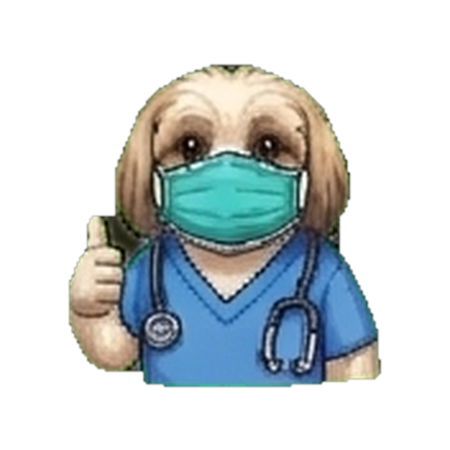
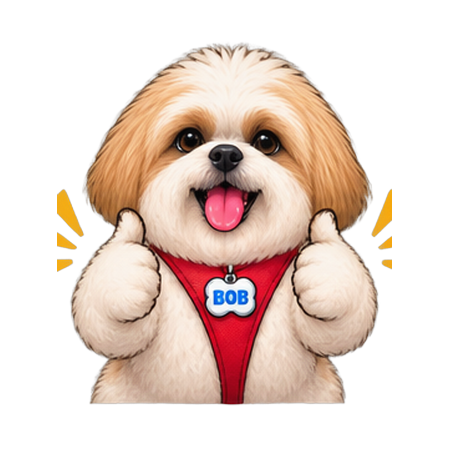
Corrige bug onde a frequencia 'intervalo' usava sua propria data de inicio interna (sempre 'hoje') em vez da data de inicio escolhida pelo usuario no campo Duracao, causando ciclos de 2 em 2 dias comecando no dia errado. Tambem substitui as mascotes do Bob por versoes melhores (sem partes faltando) 

diff --git a/web/src/screens/AddMedicineScreen.jsx b/web/src/screens/AddMedicineScreen.jsx
@@ -114,21 +114,18 @@ export default function AddMedicineScreen() {
   }
 
   function montarFrequencia() {
-    const hoje = formatarData(new Date());
     if (tipoFrequencia === 'diaria') return { tipo: 'diaria' };
     if (tipoFrequencia === 'dias_semana') {
       return { tipo: 'dias_semana', dias: diasSemanaSelecionados };
     }
     if (tipoFrequencia === 'intervalo') {
-      const dataInicioExistente =
-        remedioOriginal?.frequencia?.tipo === 'intervalo'
-          ? remedioOriginal.frequencia.dataInicio
-          : null;
       return {
         tipo: 'intervalo',
         intervaloDias: Number(intervaloDias) || 2,
-        dataInicio: dataInicioExistente || hoje,
-        proximaData: hoje,
+        // usa a MESMA data de início escolhida no campo "Duração",
+        // pra não ter duas datas de início conflitantes pro mesmo remédio
+        dataInicio,
+        proximaData: dataInicio,
       };
     }
     return { tipo: 'diaria' };

diff --git a/web/src/utils/relatorioPdf.js b/web/src/utils/relatorioPdf.js
@@ -87,7 +87,7 @@ export async function gerarRelatorioPdf({ modoBob = false } = {}) {
 
   const [logoBase64, mascoteBase64] = await Promise.all([
     carregarImagemComoBase64(modoBob ? '/logo-bob.png' : '/logo-caoprimido.png').catch(() => null),
-    carregarImagemComoBase64(modoBob ? '/bob/mascote-parabens.png' : '/nina/mascote-lendo.png').catch(() => null),
+    carregarImagemComoBase64(modoBob ? '/bob/mascote-lendo.png' : '/nina/mascote-lendo.png').catch(() => null),
   ]);
 
   const doc = new jsPDF();

diff --git a/web/src/utils/versao.js b/web/src/utils/versao.js
@@ -1,4 +1,4 @@
 // Atualizo esse número toda vez que envio uma mudança —
 // serve pra você confirmar se o app realmente atualizou no celular.
-export const VERSAO = '1.27.0';
-export const VERSAO_DESCRICAO = 'Adiciona data de inicio e termino (opcional) ao cadastrar remedio';
+export const VERSAO = '1.27.1';
+export const VERSAO_DESCRICAO = 'Corrige bug de data de inicio no intervalo + novas mascotes do Bob (com pose olhando pra cima)';
